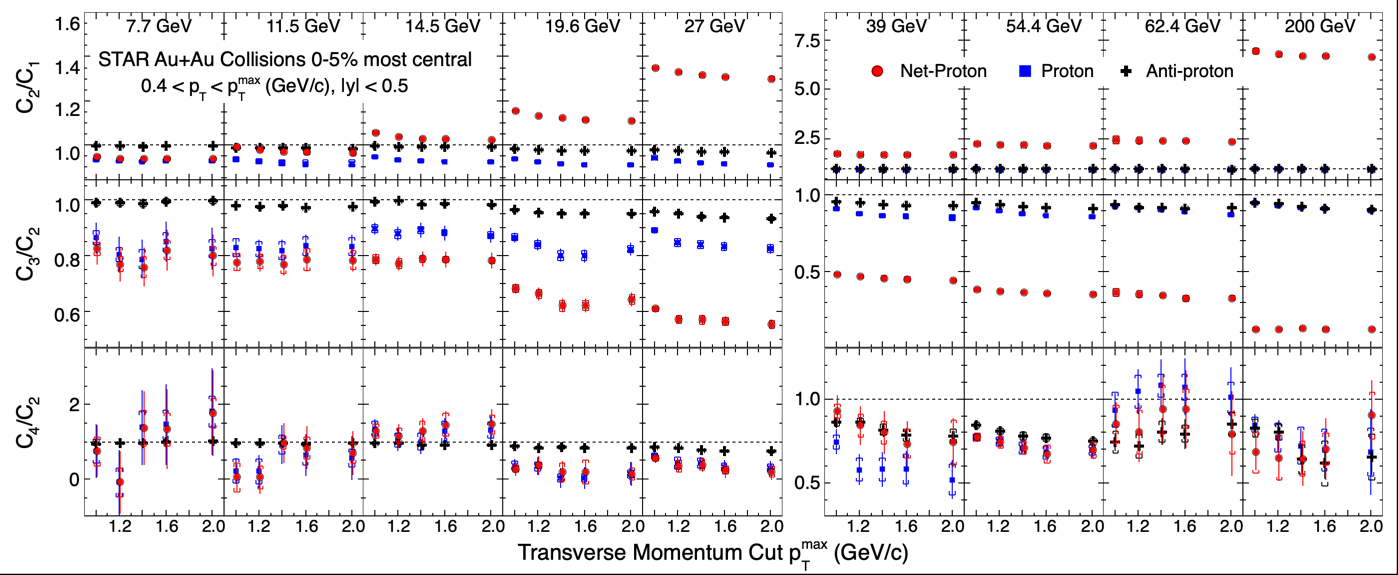
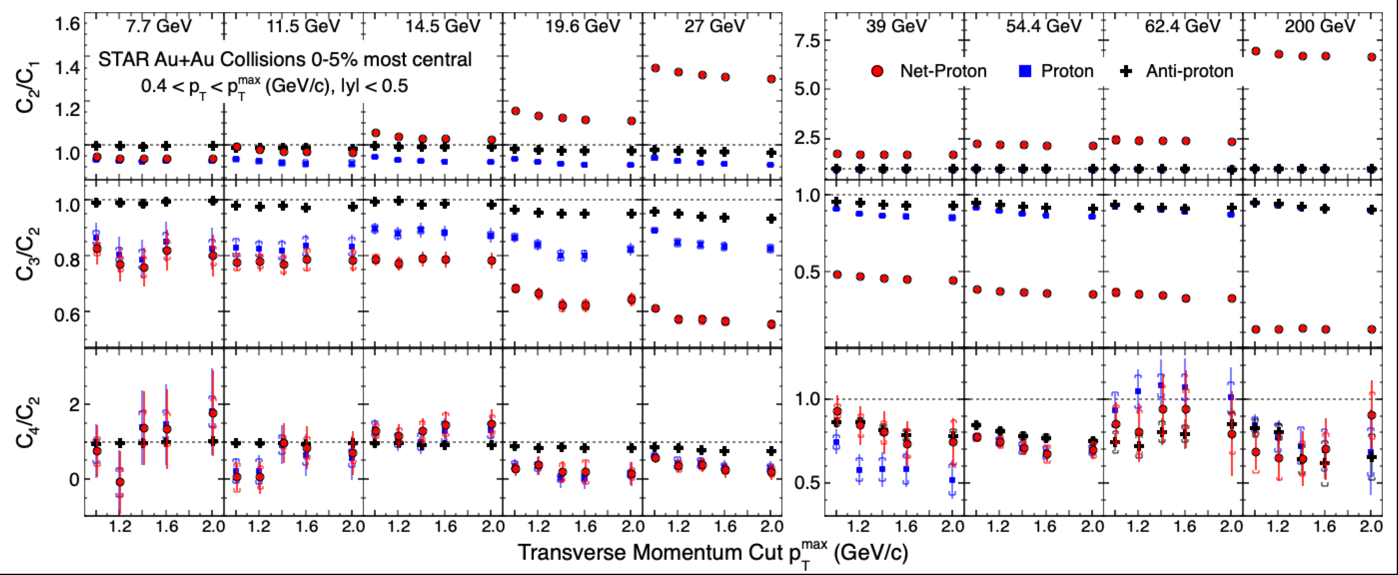
fixed the text cutout issue for Fig.17,19,20 in pdf output

diff --git a/54GeVErrata/PRC/Fig20_CnCm_pT.C b/54GeVErrata/PRC/Fig20_CnCm_pT.C
@@ -297,7 +297,7 @@ void Fig20_CnCm_pT()
   pad_coll->Draw();
   pad_coll->cd();
 
-  drawText(0.01, 0.6, "STAR Au+Au Collisions 0-5% most central", 42, 0.355);
+  drawText(0.01, 0.6, "STAR Au+Au Collisions 0-5% most central", 42, 0.345);
   drawText(0.12, 0.18, "0.4 < p_{T} < p_{T}^{max} (GeV/c), |y| < 0.5", 42, 0.33);
   pad_coll->Update();
 

diff --git a/54GeVErrata/PRC/Fig19_knk1_pT.C b/54GeVErrata/PRC/Fig19_knk1_pT.C
@@ -232,7 +232,7 @@ void Fig19_knk1_pT()
   pad_coll->Draw();
   pad_coll->cd();
 
-  drawText(0.01, 0.6, "STAR Au+Au Collisions 0-5% most central", 42, 0.45);
+  drawText(0.01, 0.6, "STAR Au+Au Collisions 0-5% most central", 42, 0.44);
   drawText(0.12, 0.18, "0.4 < p_{T} < p_{T}^{max} (GeV/c), |y| < 0.5", 42, 0.43);
   pad_coll->Update();
 

diff --git a/54GeVErrata/PRC/Fig17_CnCm_y.C b/54GeVErrata/PRC/Fig17_CnCm_y.C
@@ -299,7 +299,7 @@ void Fig17_CnCm_y()
   pad_coll->Draw();
   pad_coll->cd();
 
-  drawText(0.01, 0.6, "STAR Au+Au Collisions 0-5% most central", 42, 0.355);
+  drawText(0.01, 0.6, "STAR Au+Au Collisions 0-5% most central", 42, 0.348);
   drawText(0.12, 0.18, "0.4 < p_{T} < 2.0 (GeV/c), |y| < y_{max}", 42, 0.33);
   pad_coll->Update();
 
